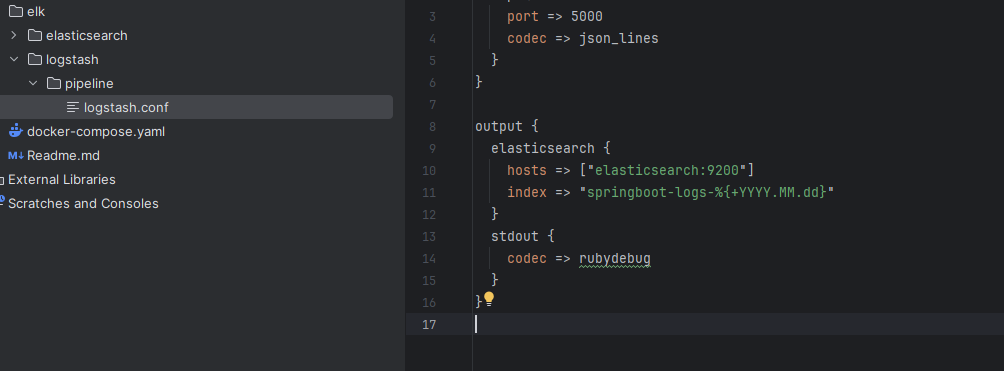
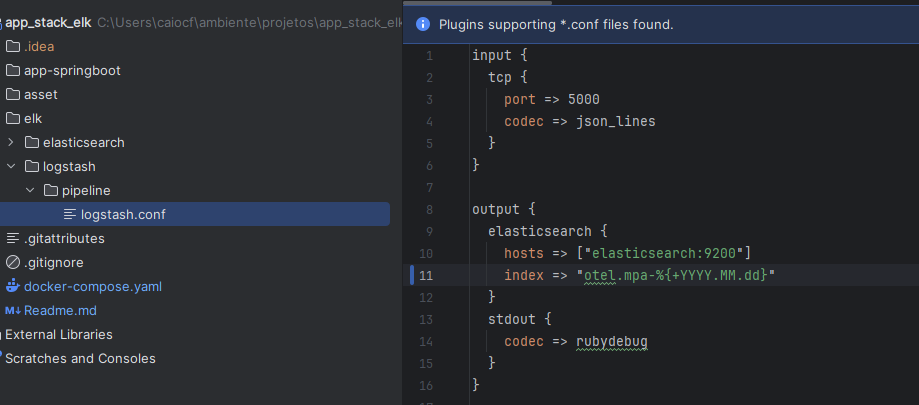
feat: commit initial

diff --git a/Readme.md b/Readme.md
@@ -1,12 +1,16 @@
 # Projeto de Demonstração da Pilha ELK com Spring Boot
 
-<p align="center"><h6>Support me</h6></p>
+<p align="center"><h3>Apoie o projeto</h3></p>
 
 <p align="center">
-  <a href="https://www.paypal.com/donate/?business=3YHDFH2J8SHEG&no_recurring=0&currency_code=USD"><img src="https://img.shields.io/badge/paypal-support-blue.svg"/></a>
+  <a href="https://www.paypal.com/donate/?business=3YHDFH2J8SHEG&no_recurring=0&currency_code=USD">
+    <img src="https://img.shields.io/badge/paypal-support-blue.svg"/>
+  </a>
 </p>
 
 Este projeto demonstra o uso prático da pilha ELK (Elasticsearch, Logstash e Kibana) em conjunto com uma aplicação Spring Boot 3.
+
+> **Atenção:** Este projeto está configurado sem as boas práticas de segurança, sendo recomendado exclusivamente para fins didáticos. Para uso em produção, é essencial habilitar e configurar adequadamente a segurança em todos os componentes envolvidos.
 
 ---
 
@@ -24,10 +28,20 @@ Este projeto demonstra o uso prático da pilha ELK (Elasticsearch, Logstash e Ki
 
 O projeto inclui os seguintes componentes:
 
-- **Aplicação Spring Boot**: responsável por gerar logs e enviá-los ao Logstash.
-- **Logstash**: recebe logs via TCP, processa-os e os envia ao Elasticsearch.
+- **Aplicação Spring Boot**: gera logs e os envia ao Logstash.
+- **Logstash**: recebe logs via TCP, realiza processamento e encaminha ao Elasticsearch.
 - **Elasticsearch**: armazena os logs recebidos do Logstash.
-- **Kibana**: oferece interface gráfica para visualização e análise dos logs armazenados no Elasticsearch.
+- **Kibana**: fornece interface gráfica para visualização e análise dos logs armazenados no Elasticsearch.
+
+---
+
+### 📌 Nome do índice utilizado:
+
+```
+otel.mpa-%{+YYYY.MM.dd}
+```
+
+![logstash.png](asset/logstash.png)
 
 ---
 
@@ -45,23 +59,31 @@ docker-compose up --build
 curl http://localhost:8080/hello
 ```
 
-Esse comando gera logs que são automaticamente enviados ao Logstash.
+Este comando gera logs automaticamente enviados ao Logstash.
 
 ---
 
-
-
 ## 📊 Visualizando os logs no Kibana
 
-Abra o Kibana no seu navegador acessando:
+Abra o Kibana no navegador acessando:
 
 ```
 http://localhost:5601
 ```
 
-Para o primeiro acesso, é necessário criar um índice para visualizar os logs.
-O nome do indice: pringboot-logs-%{+YYYY.MM.dd}
-![logstash.png](asset/logstash.png)
+No primeiro acesso, é necessário criar um índice no Kibana para visualizar os logs.
 
-IU Kibana:
+### Passos para criar o índice:
+
+![create-index-kibana-1.png](asset/create-index-kibana-1.png)
+![create-index-kibana-2.png](asset/create-index-kibana-2.png)
+
+Após criado, você poderá consultar os logs em:
+
+```
+http://localhost:5601/app/discover
+```
+
 ![kibana_iu.png](asset/kibana_iu.png)
+
+---
